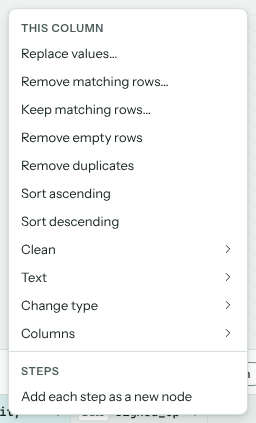
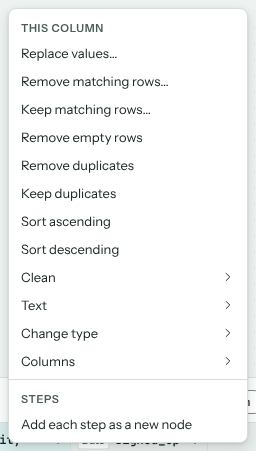
Add Keep duplicates to the column menu
Right-clicking a column now offers Keep duplicates next to Remove
duplicates: it adds the existing duplicateRows step with keep set to
duplicates, so only rows whose value repeats in the selected columns
stay, every copy of them.

Claude-Session: https://claude.ai/code/session_01SBi8QFQBA6MCPnnrpm6kmG

diff --git a/e2e/column-menu.spec.ts b/e2e/column-menu.spec.ts
@@ -49,3 +49,17 @@ test('the column menu replaces values, removes matching rows and can add each st
   await expect(steps(page)).toHaveText([/Changed name to upper case/]);
   await expect(page.getByTestId('results-title')).toHaveText('Transform 2 · step 1');
 });
+
+test('the column menu keeps only the rows whose value repeats', async ({ page }) => {
+  await openApp(page);
+  await addFiles(page, [fixture('messy.csv')]);
+  await expectRows(page, 5);
+
+  // messy.csv repeats id 3; both copies stay and the rest go.
+  await rightClick(page, 0);
+  await menu(page).getByRole('menuitem', { name: 'Keep duplicates' }).click();
+  await expect(steps(page)).toHaveText([/Kept only duplicate rows by id/]);
+  await expectRows(page, 2);
+  await expect(cell(page, 0, 0)).toHaveText('3');
+  await expect(cell(page, 0, 1)).toHaveText('3');
+});

diff --git a/src/quickfix/columnMenu.ts b/src/quickfix/columnMenu.ts
@@ -47,6 +47,7 @@ export function columnActions(ctx: ColumnMenuContext): ColumnAction[] {
     { label: 'Keep matching rows…', group: g, step: (c) => make('filterRows', c, { mode: 'keep', conditions: [{ column: first, op: 'notEmpty', value: '' }] }) },
     { label: 'Remove empty rows', group: g, step: onColumns('removeBlankRows') },
     { label: 'Remove duplicates', group: g, step: fix('duplicateRows') },
+    { label: 'Keep duplicates', group: g, step: onColumns('duplicateRows', { keep: 'duplicates' }) },
     { label: 'Sort ascending', group: g, step: (c) => make('sortRows', c, { keys: c.columns.map((column) => ({ column, descending: false })) }) },
     { label: 'Sort descending', group: g, step: (c) => make('sortRows', c, { keys: c.columns.map((column) => ({ column, descending: true })) }) },
 

diff --git a/src/quickfix/columnMenu.test.ts b/src/quickfix/columnMenu.test.ts
@@ -61,6 +61,12 @@ describe('the column menu', () => {
     expect((await build(ctx(), 'Duplicate column')).params).toEqual({ column: 'city', into: 'city_copy' });
   });
 
+  it('keeps only the rows whose value repeats, or removes the repeats', async () => {
+    const kept = await build(ctx(), 'Keep duplicates');
+    expect(kept).toMatchObject({ type: 'duplicateRows', params: { columns: ['city'], keep: 'duplicates' }, label: 'Kept only duplicate rows by city' });
+    expect((await build(ctx(), 'Remove duplicates')).params).toEqual({ columns: ['city'], keep: 'first' });
+  });
+
   it('cuts long values short in its labels', () => {
     expect(shown('a'.repeat(40))).toBe(`“${'a'.repeat(23)}…”`);
   });

diff --git a/docs/cleaning.md b/docs/cleaning.md
@@ -57,7 +57,7 @@ Right-click a column header in the results table, or click the arrow at the righ
 
 ![The column menu for the city column](_static/screenshots/column-menu.png)
 
-The top of the menu has the steps you reach for most: **Replace values**, **Remove matching rows**, **Keep matching rows**, **Remove empty rows**, **Remove duplicates** and the two sorts. The rest sit in submenus:
+The top of the menu has the steps you reach for most: **Replace values**, **Remove matching rows**, **Keep matching rows**, **Remove empty rows**, **Remove duplicates**, **Keep duplicates** and the two sorts. **Keep duplicates** shows only the rows whose value in the selected columns appears more than once, every copy of them, so you can look at the repeats before deciding what to do. The rest sit in submenus:
 
 | Submenu | What's in it |
 | --- | --- |
